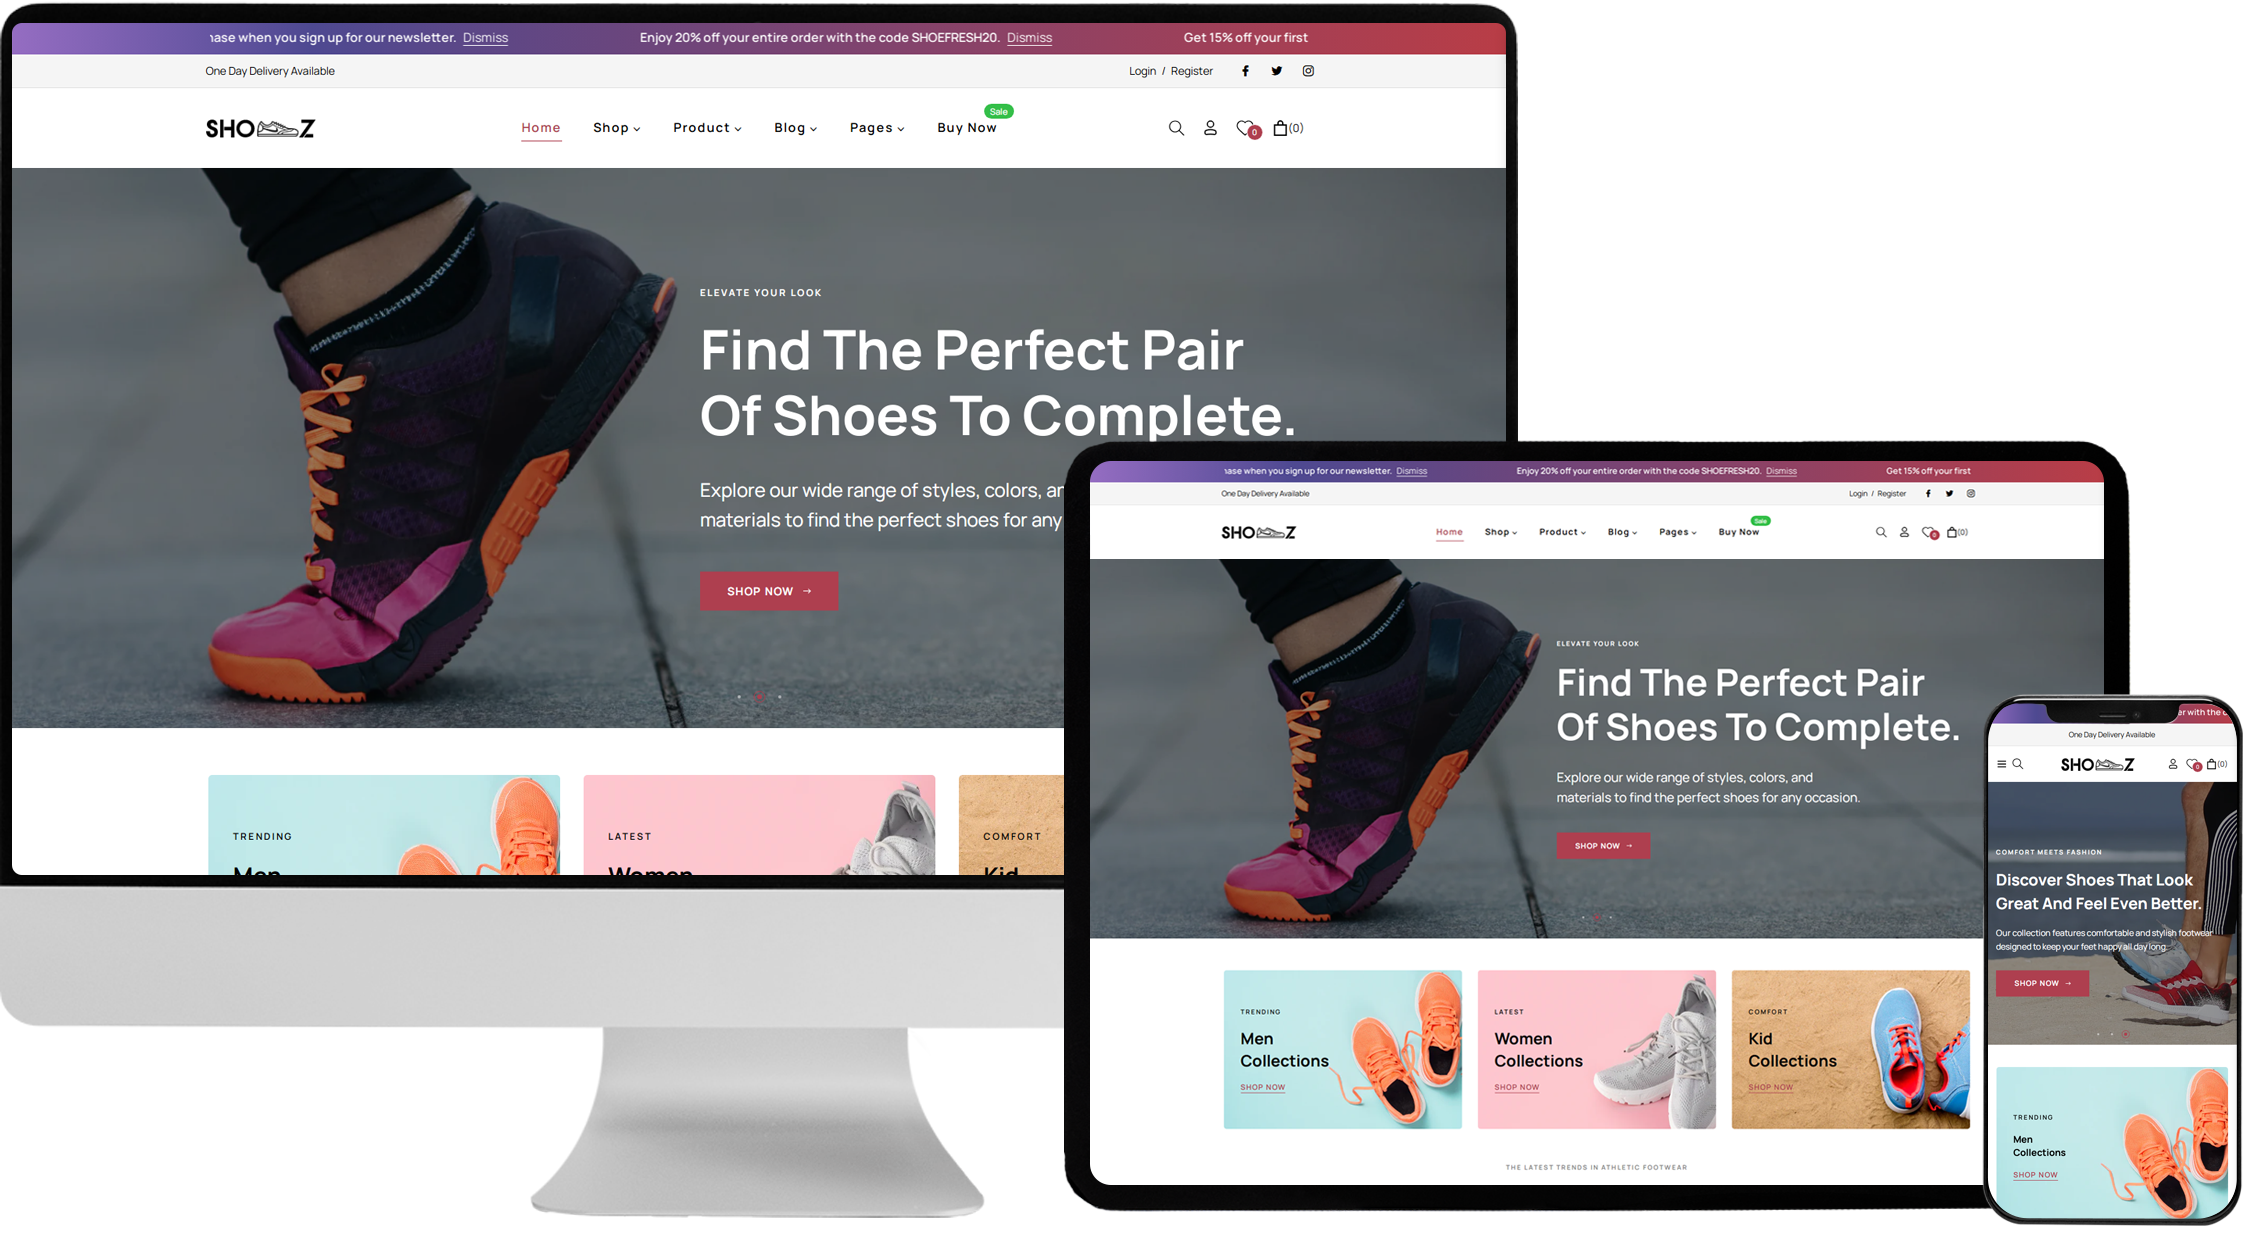
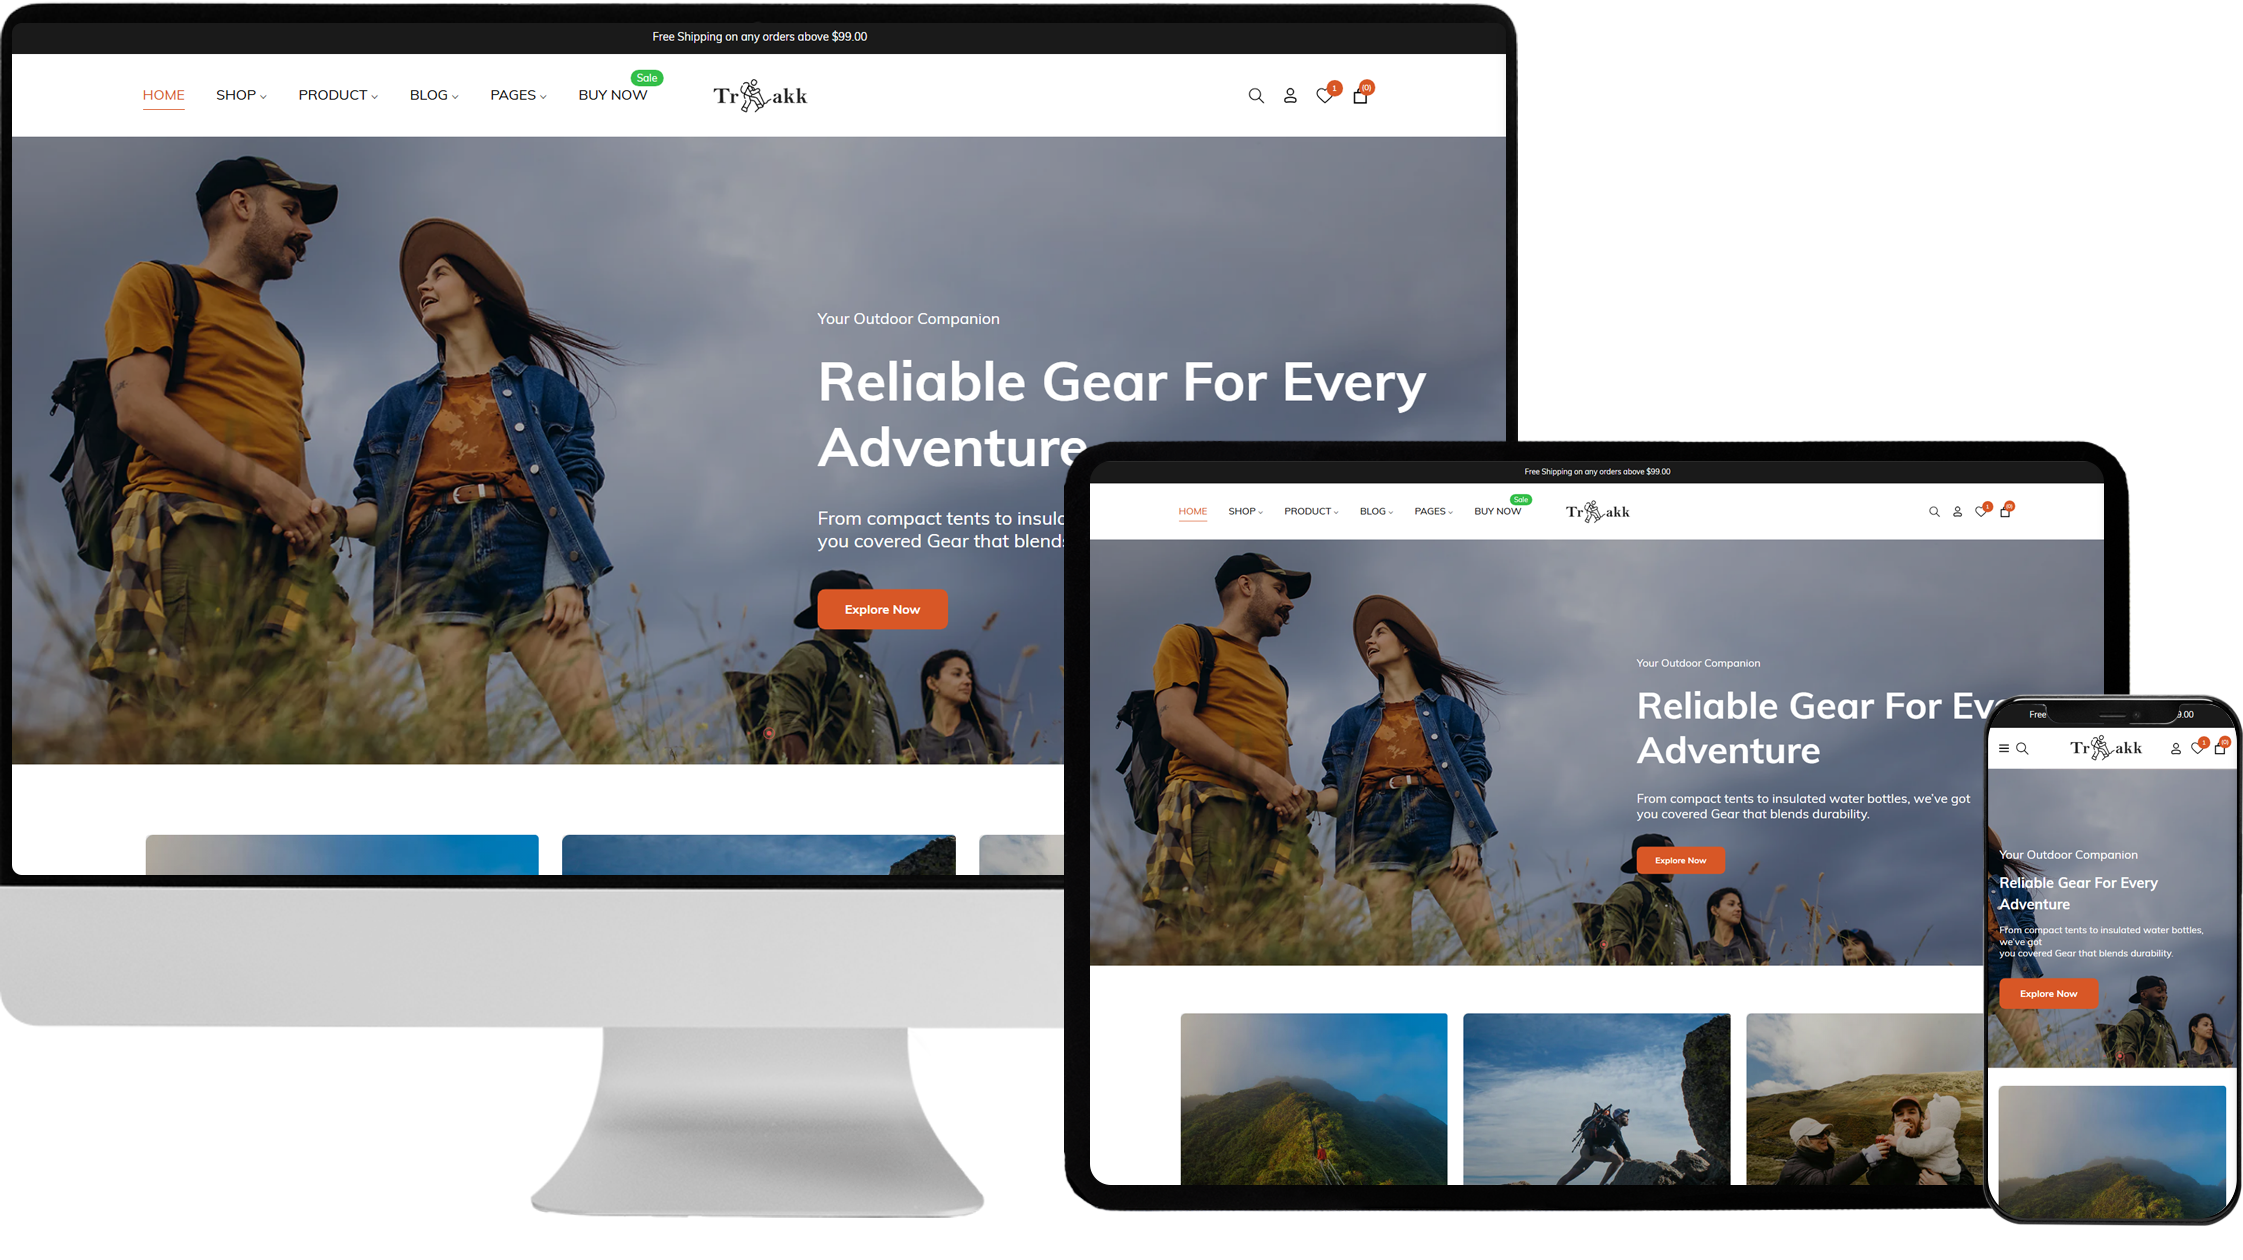
S
S

diff --git a/index.html b/index.html
@@ -8,7 +8,7 @@
     <meta http-equiv="X-UA-Compatible" content="IE=edge">
     <meta name="viewport" content="width=device-width, initial-scale=1">
     <!-- title -->
-    <title>Shooz - Sports Shoes, Footwear Shoes Shopify 2.0 Theme</title>
+    <title>Trakk - Hiking, Camping & Trekking Shopify 2.0 Theme</title>
     <meta name="description" content="A best stylish, creative, modern responsive theme for different eCommerce business or industries." />
     <meta name="keywords" content="organic food theme, shopify, eCommerce shopify theme, responsive, furniture wood, fashion, furniture, mobile, watches, electronics, computers accessories, toys, jewellery, restaurant accessories" />
     <meta name="author" content="qodex">
@@ -53,7 +53,7 @@
                             <div class="collapse navbar-collapse" id="navbar">
                                 <ul class="nav">
                                     <li class="land-link">
-                                        <form method="post" action="https://qx-shooz.myshopify.com/password" target="_blank" id="login_form" accept-charset="UTF-8" class="storefront-password-form dt-custom-button">
+                                        <form method="post" action="https://qx-trakk.myshopify.com/password" target="_blank" id="login_form" accept-charset="UTF-8" class="storefront-password-form dt-custom-button">
                                             <input type="hidden" name="form_type" value="storefront_password">
                                             <input type="hidden" name="utf8" value="✓">
                                             <div class="input-group password__input-group">
@@ -63,7 +63,7 @@
                                         </form>
                                     </li>
                                     <li class="land-link">
-                                        <form method="post" action="https://qx-shooz.myshopify.com/password" target="_blank" id="login_form" accept-charset="UTF-8" class="storefront-password-form dt-custom-button">
+                                        <form method="post" action="https://qx-trakk.myshopify.com/password" target="_blank" id="login_form" accept-charset="UTF-8" class="storefront-password-form dt-custom-button">
                                             <input type="hidden" name="form_type" value="storefront_password">
                                             <input type="hidden" name="utf8" value="✓">
                                             <div class="input-group password__input-group">
@@ -82,7 +82,7 @@
                             </div>
                         </nav>
                         <div class="purchase-now-bottom">
-                            <a href="https://1.envato.market/shooz" class="btn btn-style1" target="blank">Purchase Shooz</a>
+                            <a href="https://themeforest.net/user/qodex/portfolio" class="btn btn-style1" target="blank">Purchase Trakk</a>
                         </div>
                     </div>
                 </div>
@@ -103,13 +103,13 @@
                     <div class="landing-themebuy">
                         <div class="section-title">
                             <h2 style="margin-bottom: 20px; font-size: 38px;">
-                                <span style="line-height: 1.2em;">Shooz - Sports Shoes, Footwear <br>Shoes Shopify 2.0 Theme</span>
+                                <span style="line-height: 1.2em;">Trakk - Hiking, Camping & <br>Trekking Shopify 2.0 Theme</span>
                                 <span>Shop Password : <i>1</i></span>
                             </h2>
                         </div>
                         <div class="buy-button" style="text-align: center;">
                             <a href="#" style="margin: 0 10px;">
-                                <form method="post" action="https://qx-shooz.myshopify.com/password" target="_blank" id="login_form" accept-charset="UTF-8" class="storefront-password-form dt-custom-button">
+                                <form method="post" action="https://qx-trakk.myshopify.com/password" target="_blank" id="login_form" accept-charset="UTF-8" class="storefront-password-form dt-custom-button">
                                     <input type="hidden" name="form_type" value="storefront_password">
                                     <input type="hidden" name="utf8" value="✓">
                                     <div class="input-group password__input-group">
@@ -118,7 +118,7 @@
                                     </div>
                                 </form>
                             </a>
-                            <a href="https://1.envato.market/shooz" class="btn btn-style1" target="_blank" style="margin: 0 10px;">Purchase theme</a>
+                            <a href="https://themeforest.net/user/qodex/portfolio" class="btn btn-style1" target="_blank" style="margin: 0 10px;">Purchase theme</a>
                         </div>
                         <!-- buy button end -->
                     </div>

diff --git a/css/style.css b/css/style.css
@@ -87,7 +87,7 @@ a {
 
 a:hover {
     text-decoration: none;
-    color: #ae3f4f;
+    color: #d85726;
     -webkit-transition: .3s ease-in-out;
     transition: .3s ease-in-out;
 }
@@ -189,16 +189,16 @@ button {
 }
 
 .btn-style2:hover {
-    background-color: #ae3f4f;
-    border: 1px solid #ae3f4f;
+    background-color: #d85726;
+    border: 1px solid #d85726;
     color: #fff;
 }
 
 .btn-style1 {
     padding: 15px 20px;
     color: #fff;
-    background-color: #ae3f4f;
-    border: 1px solid #ae3f4f;
+    background-color: #d85726;
+    border: 1px solid #d85726;
     font-size: 14px;
     letter-spacing: 1px;
     line-height: 1;
@@ -235,8 +235,8 @@ button {
 
 .btn-style:hover {
     color: #fff;
-    background-color: #ae3f4f;
-    border: 2px solid #ae3f4f;
+    background-color: #d85726;
+    border: 2px solid #d85726;
     -webkit-transition: 0.3s ease-in-out;
     transition: 0.3s ease-in-out;
 }
@@ -372,7 +372,7 @@ button {
 }
 
 .landing-header .land-header nav ul.nav li:hover a {
-    color: #ae3f4f;
+    color: #d85726;
 }
 
 @media (max-width: 1199px) {
@@ -581,8 +581,8 @@ button {
 }
 
 .landing-text h2.land-main span {
-    color: #ae3f4f;
-    border-bottom: 2px solid #ae3f4f;
+    color: #d85726;
+    border-bottom: 2px solid #d85726;
 }
 
 .landing-text h2 span.replace {
@@ -865,11 +865,11 @@ button {
 }
 
 .flag.box {
-    background-color: #ae3f4f;
+    background-color: #d85726;
 }
 
 .flag.rtl {
-    background-color: #ae3f4f;
+    background-color: #d85726;
 }
 
 .flag.coming {
@@ -1344,7 +1344,7 @@ button {
 }
 
 .landing-header .land-header nav ul.nav li button:hover {
-    color: #ae3f4f;
+    color: #d85726;
 }
 
 .section-title h2 span:last-child {
@@ -1362,5 +1362,5 @@ button {
 }
 
 .landing-header .land-header .mainlogo a img {
-    max-width: 100%;
+    max-width: 80%;
 }
